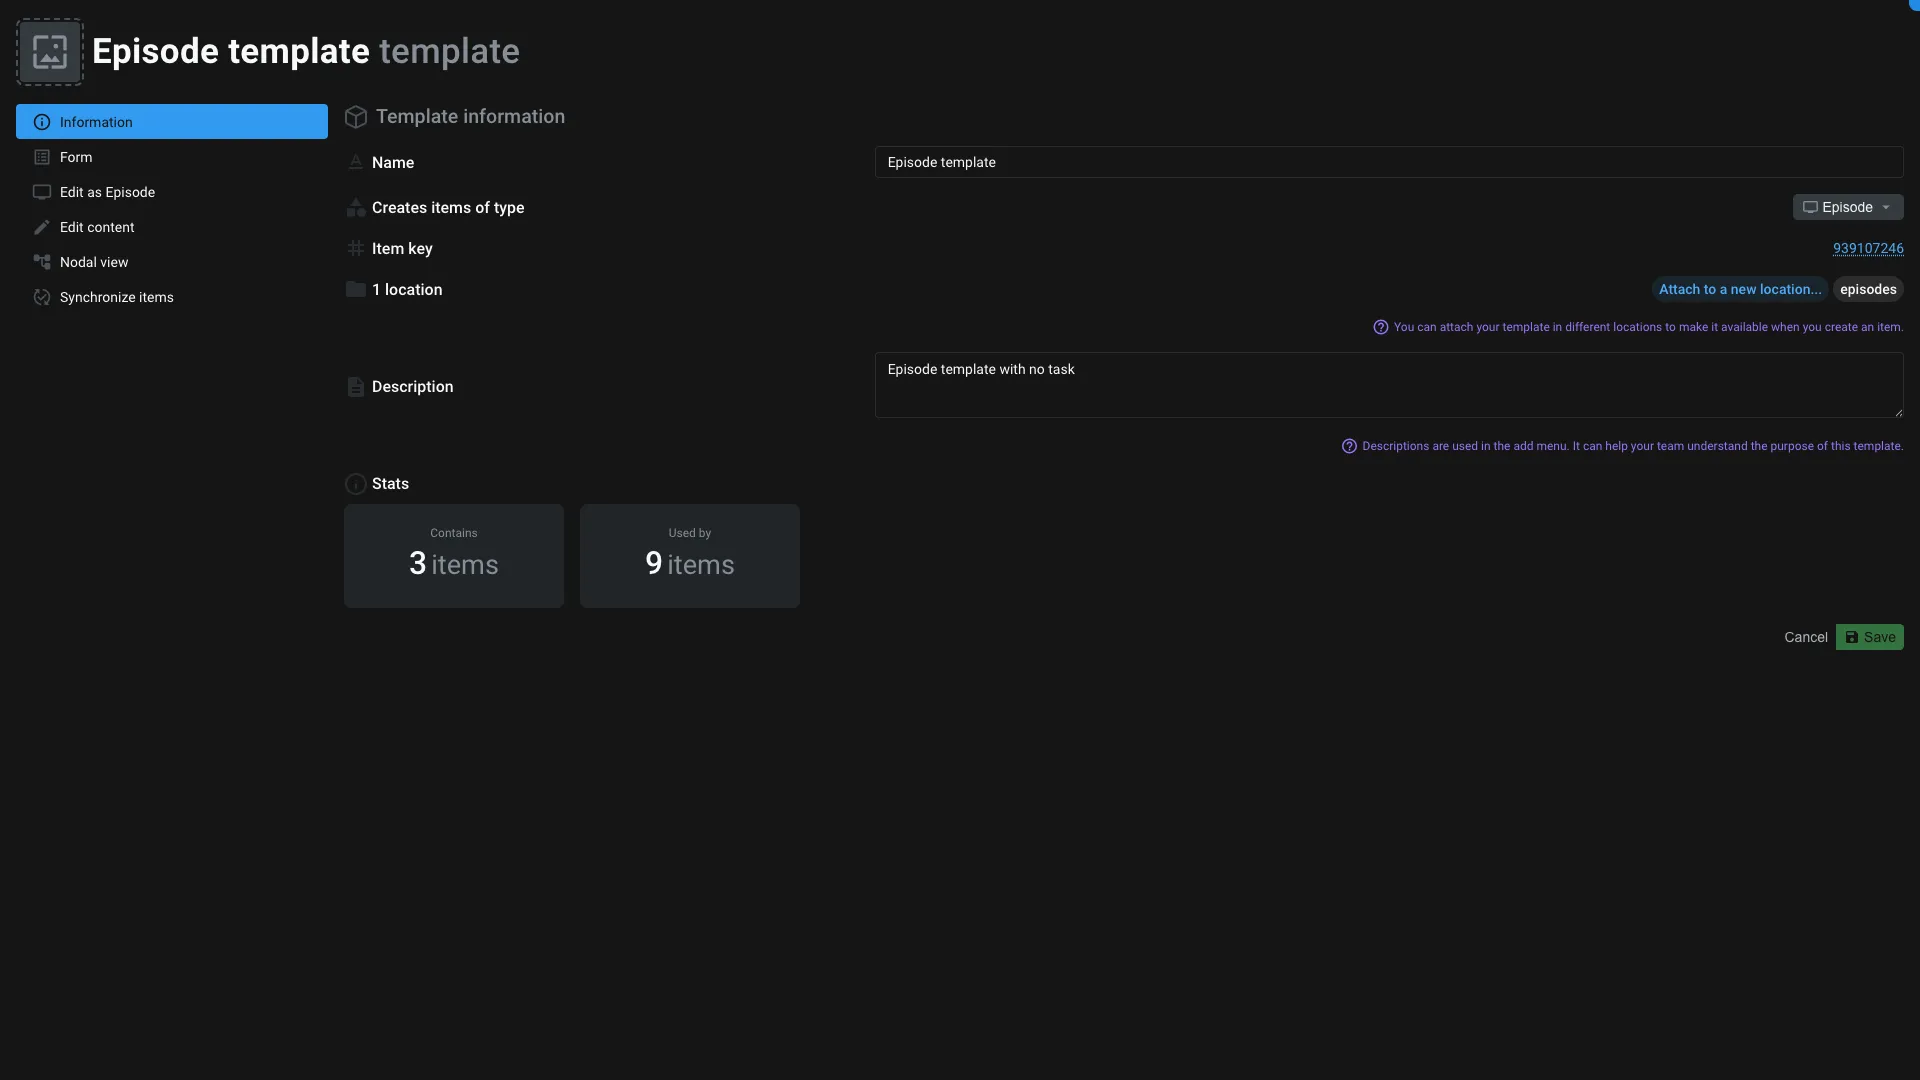
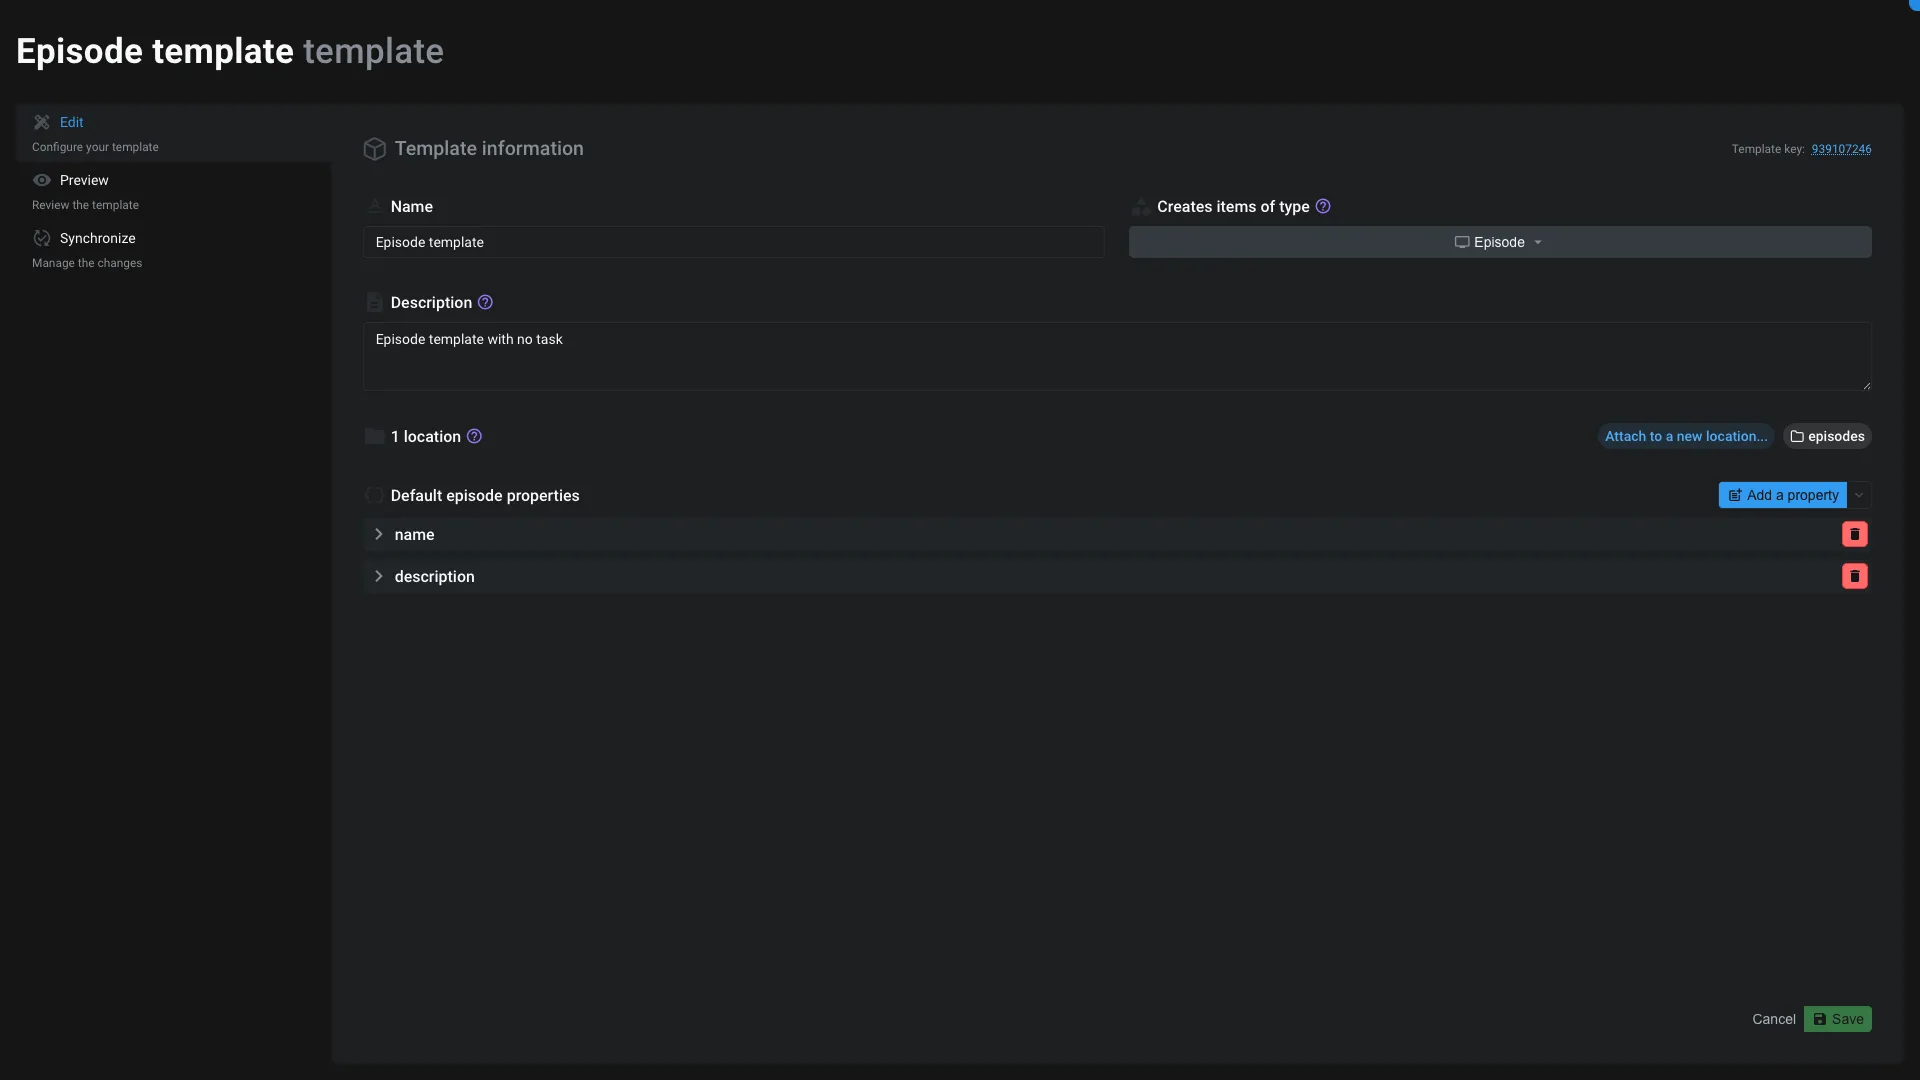
feat(template editor): Update documentation with new application

diff --git a/src/web/applications/templateeditor.md b/src/web/applications/templateeditor.md
@@ -11,57 +11,87 @@ The template editor is the application dedicated to edit [templates](../items/te
 
 ![Template editor](../../_medias/screenshots/templateeditor.webp)
 
-This application have different tabs on the left to manage the template:
+This application have 3 tabs on the left to manage its data, content and linked items.:
 
 ## Information
 
 You will find some general information about the template:
 
 - **Name**: The name of the template
-- **Template type**: The type of item the template will create
-- **Template location**: The location of the template. Please refer the [Template item](../items/template.md#usage) for more information about it's usage. You can clone the template to multiple locations.
+- **Template type**: The type of the item that can use this template
 - **Description**: A description of the template
+- **Template location**: The location of the template. Refer the [Template item](../items/template.md#usage) for more information about it's usage. You can clone the template to multiple locations.
+- **Template properties**: The `data` of the template. All those properties will be present on the item created from the template. If you want to override them when the item is created, unfold the property and click on `Allow edit`.
 
 > [!note]
-> A template can be only for a specific item's type.
+> Regarding the template type, a template can only be used by only one type of item.
 
-## Form
+### Template properties
 
-On templates, you can define a form to fill when creating an item from the template. This tab allow you to define the form:
+If you need the item to have default data when they are created from the template, you can define them here.
 
-1. Click on the `Add field` button
-2. Name your field
-3. Edit the property model using basic meshQL syntax. Example: `item.data.name`, `item.data.custom_property`, ...
-4. [Optional] Add a description to the field
+1. Click on the `Add property` button. If you want to choose the type of the data, you can use the arrow next to the button and choose between (`Text`, `Boolean`, `Number`, `List` or `Object`). By default the type is `Text`.
+2. Name your property
 
-By default Aquarium will use the [default form](./addmenu.md#form-creation) asking only for the name of the item.
+When you click on the property, you can set its default value and choose if the user can edit it when creating the item.
+
+#### Allow edition when creating the item
+
+When you enable to edit the property while creating the item, the user will be presented with a small form to enter the data.
 
 Here is [an example of a form with multiple fields](../items/template.md):
 
 ![Template form](../../_medias/screenshots/template-form.webp)
 
-> [!warning]
-> At least one field need to be tight to the `item.data.name` property.
+> [!note]
+> By default Aquarium will always ask you to name the item.
 
-## Edit as...
+For each property with the `Allow edit` option enabled, you can indicate :
 
-This tab allow you to edit the template using the default application of the item type.
+- **Label**: The label of the field. It's a "nice human readable" name for the field. Be creative use capital letters, spaces, emojis, etc.
+- **Type**: The type of the field. You can choose between :
+  - Short text
+  - Multiple lines text
+  - Number
+  - Checkbox
+  - Date
+  - Duration
+  - File
+  - Record
+  - Array
+  - Dropdown
+  - Multiple choice
+- **Required**: If the field is required or not
+- **Default value**: The default value of the field
+- **Description**: A description of the field. It's a good place to explain what the field is for.
 
-> Example: if the template is for a [Shot](../items/shot.md), the Edit as... application will be the [Shot editor](../applications/shoteditor.md).
+## Preview
 
-## Edit content
+Use this tab to preview and edit the template's content. You have 3 preview available:
 
-This tab allow you to edit the content of the template using a very minalistic editor, where you can create, edit and delete items.
+### Application
+
+This option allow you to preview the template using the default application of the item type.
+
+> Example: if the template is for a [Shot](../items/shot.md), the application will be the [Shot editor](../applications/shoteditor.md).
+
+It's the best way to see how the template will be used when creating an item.
+
+### Edit
+
+Here, you can edit the content of the template using a very minalistic editor, where you can create, edit and delete items.
 
 You can also use it to explore the actual content of the template.
 
-## Nodal view
+## Nodal
 
-This tab display the template in a nodal view, where you can see the structure of the template, with all the items and their connections.
+That option display the template in a nodal, where you can see the structure of the template, with all the items and their connections.
 
 Today, the nodal view is read-only.
 
-## Synchronize items
+## Synchronize
+
+Template are great because you can define the default data and content of your items. But sometimes, you need to update your template to add new data, new content, etc. That's why we created the synchronize tab.
 
 ![Synchronize items](../../_medias/screenshots/templateeditor-sync.webp)
 
@@ -71,13 +101,20 @@ Today, the nodal view is read-only.
    3. Use the icon <span class="aq-icon">link_off</span> to unlink the item from the template.
 2. **Link to an item**: Use this button to browse your project, select items and link them to the template. You can also unlink items using the <span class="aq-icon">link_off</span> button next to each item.
 3. **Compare options**: When you want to synchronise the items, you can choose several compare options:
-   1. **Include/Exclude** items based on their type. You can filter the type of items you want to compare using this option. For example, on an episode, it makes sense to check only the tasks, since you can define default tasks on the episode template.
-   2. By default, Aquarium will only compare if the item is present or not. Using the second option, you can **specify the properties you want to compare**.
+   1. **Include/Exclude** items based on their type. You can filter the type of items you want to compare using this option. For example, on an episode, it makes sense to check only the tasks, since you can define default tasks on the episode template. We preselect the types based on the template content.
+   2. By default, Aquarium will only compare if the item is present or not. Using the option `Properties to compare`, you can **specify the properties you want to compare and sync**.
    3. **Compare** button. When you click on this button, Aquarium will compare the items against the template and show you the differences. You can narrow down the items by selecting them in the list using the checkbox, or simply by clicking on the item itself to expand it.
-4. **Sync**: This button will ask you to choose what's information you want to synchronize. You can choose to sync:
-   1. The <span class="aq-icon">add</span> **missing** items: those are the items that exist on the template but not on the linked items.
-   2. The <span class="aq-icon outline">change_history</span> **modified** items: those are the items where the selected properties doesn't match the template.
-   3. The <span class="aq-icon">delete</span> **exceeding** items: those are the items that exist on the linked items but not on the template. If you sync those items, they will be trashed.
+4. **Sync**: This button will ask you to choose what's information you want to synchronize. You can choose to sync
+
+### Sync options
 
 > [!error]
-> Use the sync with caution ! It's a powerful tool that can modify a lot of items at once. Preview the changes before applying them, by expanding some items in the list.
+> Syncing a template if a powerful action that can modify a lot of items at once. Use it with caution. Always compare the items before syncing them.
+
+![Sync options](../../_medias/screenshots/templateeditor-sync-options.webp)
+
+You have 3 options to sync the items with the template. You need to at least select one of them to sync the items.
+
+   1. **Missing items**: Use this option if you want to *create* the items that exists in the template, but not in the linked items.
+   2. **Modified ites**: Use this options if you want to *update* the existing items that doesn't matche the selected properties value in the template. For example if you renamed an item, change the default status, ...
+   3. **Exceeding items**: Use this option if you want to *trash* the items that exist on the linked items but not on the template. Use this option with caution. It's normal that items have more items than the template. Use precise filters to avoid trashing items that you don't want to.
